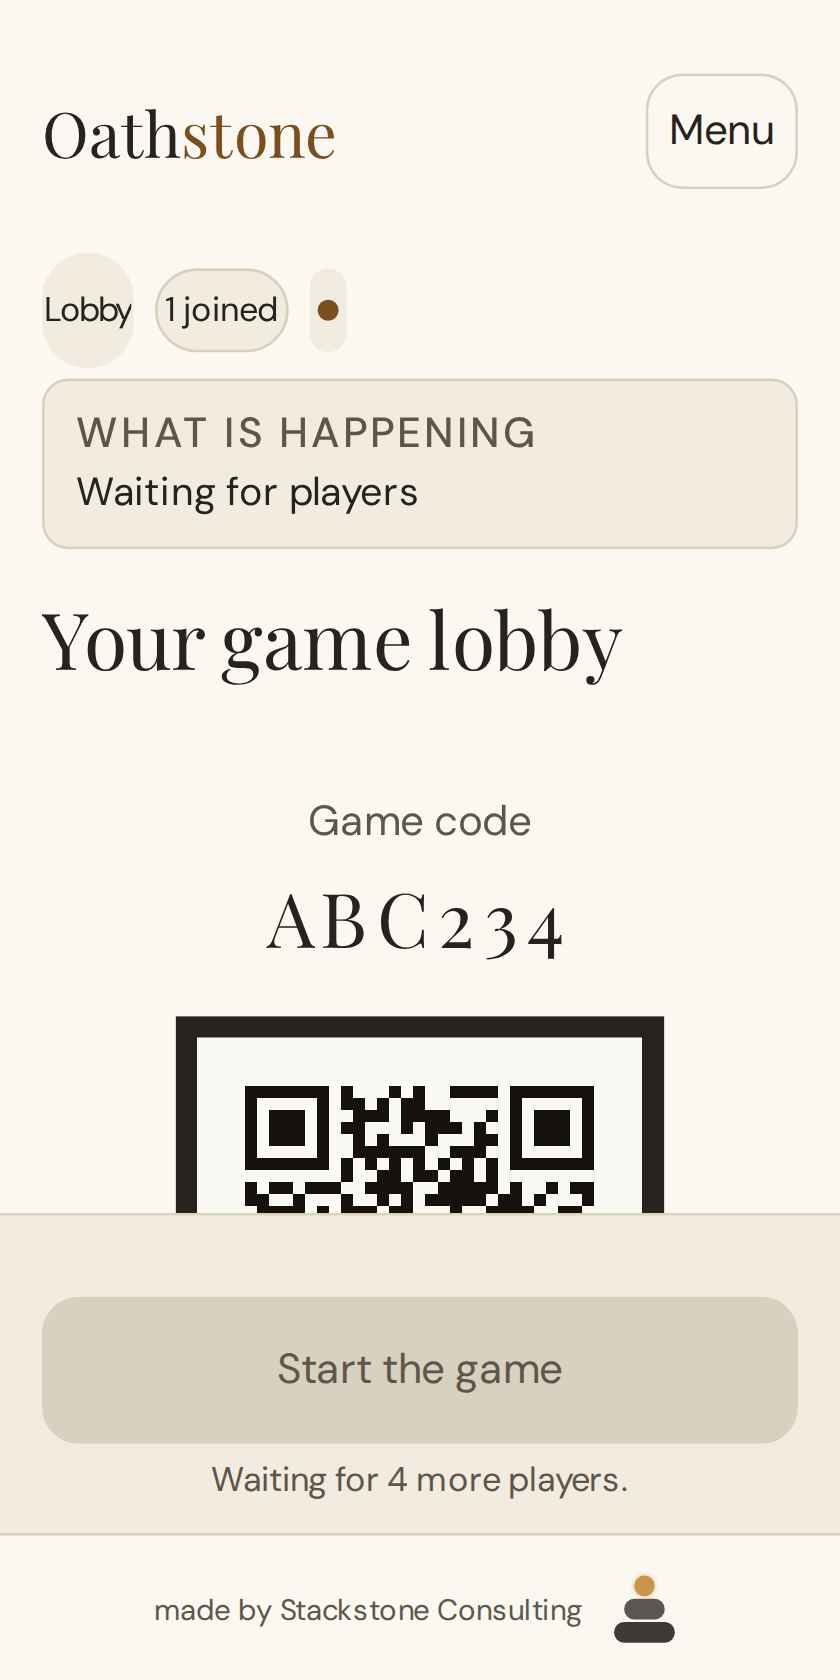
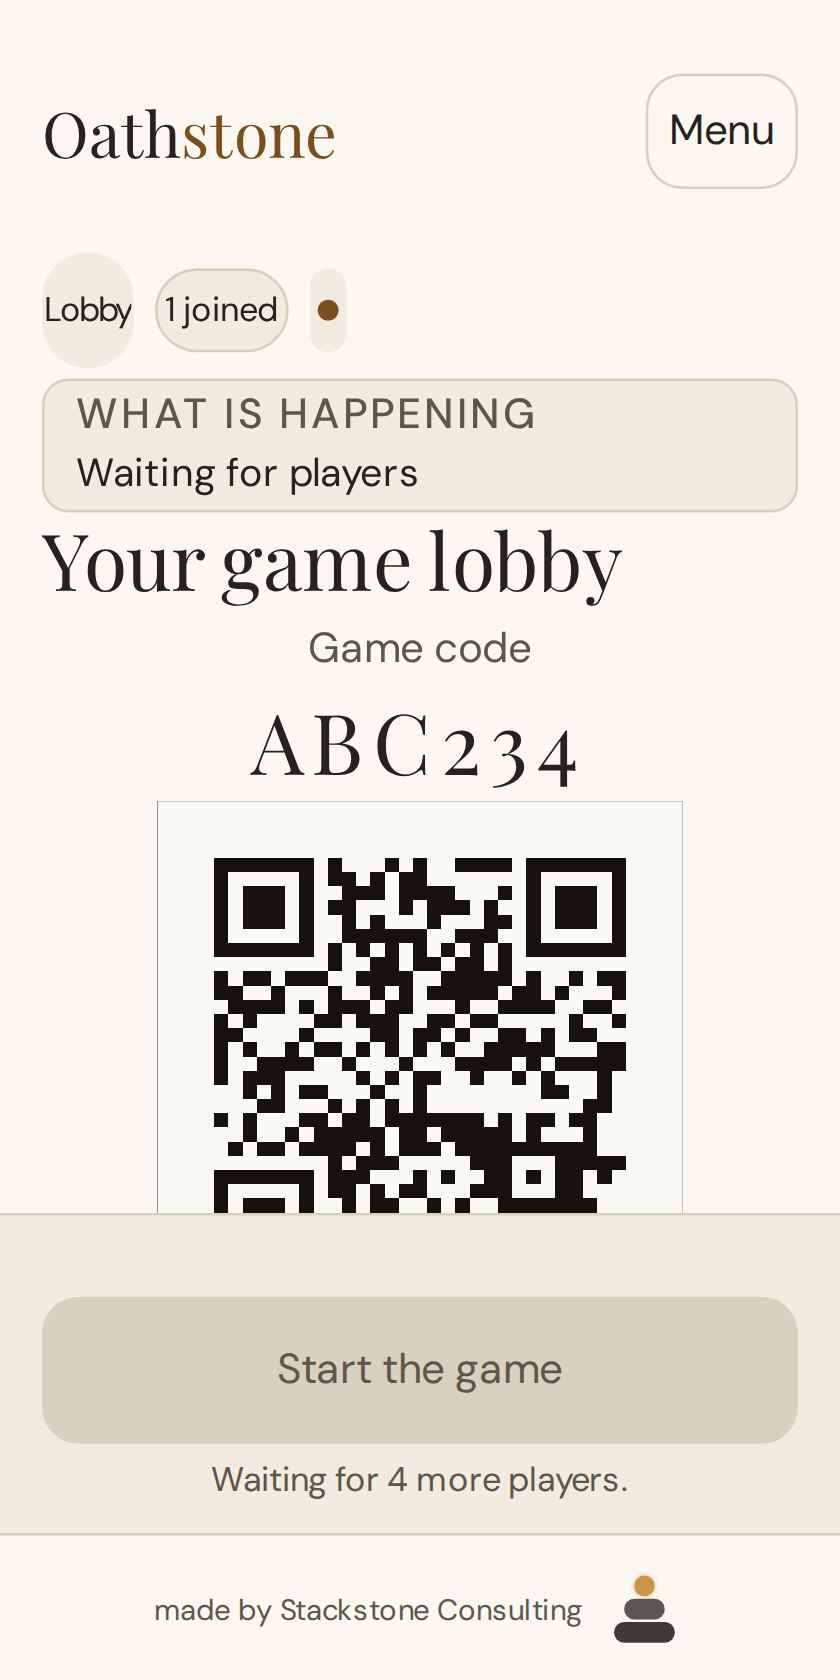
Fit the Lobby invitation in the first phone viewport

Changed region(s): [[0.031, 0.2167, 0.8048, 0.7429]]

diff --git a/e2e/application-layout-audit.spec.ts b/e2e/application-layout-audit.spec.ts
@@ -318,6 +318,43 @@ for (const width of widths)
           );
         }),
       ).toBe(true);
+      if (width === 360 || width === 390) {
+        const firstView = await page.evaluate(() => {
+          const main = document.querySelector('#entry-main')!;
+          const viewport = main.getBoundingClientRect();
+          return {
+            scrollTop: main.scrollTop,
+            viewport: { top: viewport.top, bottom: viewport.bottom },
+            items: ['text-lobby-code', 'img-lobby-qr', 'button-share-game'].map(
+              (id) => {
+                const box = document
+                  .querySelector(`[data-testid="${id}"]`)!
+                  .getBoundingClientRect();
+                return {
+                  id,
+                  top: box.top,
+                  bottom: box.bottom,
+                  width: box.width,
+                  height: box.height,
+                };
+              },
+            ),
+          };
+        });
+        expect(firstView.scrollTop).toBe(0);
+        for (const item of firstView.items) {
+          expect(item.top, JSON.stringify(firstView)).toBeGreaterThanOrEqual(
+            firstView.viewport.top,
+          );
+          expect(item.bottom, JSON.stringify(firstView)).toBeLessThanOrEqual(
+            firstView.viewport.bottom - 8,
+          );
+        }
+        const qr = firstView.items.find((item) => item.id === 'img-lobby-qr')!;
+        expect(qr.width).toBeGreaterThanOrEqual(200);
+        expect(qr.width).toBeLessThanOrEqual(220);
+        expect(qr.height).toBe(qr.width);
+      }
       await audit('lobby-organiser');
 
       for (const phase of phases) {

diff --git a/artifacts/party-game/src/EntryExperience.css b/artifacts/party-game/src/EntryExperience.css
@@ -858,6 +858,46 @@
   .entry-start-game {
     margin-top: 1.25rem;
   }
+
+  /* Keep the fresh Lobby invitation above the dock on short phones.
+     The SVG already includes its own four-module quiet zone. */
+  .entry-screen-lobby .entry-main {
+    padding-top: 4px;
+  }
+
+  .entry-screen-lobby .entry-stage-chrome {
+    margin-bottom: 0;
+  }
+
+  .entry-experience.entry-screen-lobby .game-status-bar {
+    min-height: 44px;
+  }
+
+  .entry-screen-lobby .game-happening-card {
+    padding-block: 3px;
+  }
+
+  .entry-screen-lobby .entry-lobby-logistics {
+    gap: 4px;
+    margin-top: 4px;
+    padding-top: 0;
+  }
+
+  .entry-screen-lobby .entry-qr {
+    width: 200px;
+    padding: 0;
+  }
+
+  .entry-screen-lobby .entry-lobby-code {
+    font-size: 32px;
+    line-height: 1.2;
+  }
+
+  .entry-screen-lobby .entry-code-share .entry-secondary-action {
+    margin-top: 0;
+    min-height: 44px;
+    padding-block: 0.5rem;
+  }
 }
 
 @media (prefers-reduced-motion: no-preference) {

diff --git a/docs/PROGRESS.md b/docs/PROGRESS.md
@@ -1,5 +1,17 @@
 # Status for reviewer
 
+**Round 7 Lobby first-view follow-up — local checks passed.** QR is 200px square,
+with its encoded quiet zone unchanged. Mobile spacing is tightened without
+hiding content or changing the dock. The audit now requires code, QR and Share
+to fit at scroll position zero at 360×740 and 390×844, with 8px clearance.
+Baseline main `2aefc7b` passed Verify #299. All 16 full-state Pixel/iPhone audit
+cases passed (320/360/390/430, day/night), including the new first-view checks;
+TypeScript, lint and whitespace checks passed. Organiser captures and aliases
+are refreshed at all four widths. No rule or secrecy change. Current result:
+[main Verify](https://github.com/WhisperingSquirrel-TD/Turnstone/actions/workflows/verify.yml?query=branch%3Amain).
+
+## Previous completed Lobby batch
+
 **Round 7 organiser Lobby review — COMPLETE.** Verified application:
 `857d492`, [Verify #298 GREEN](https://github.com/WhisperingSquirrel-TD/Turnstone/actions/runs/40204037677).
 Implementation `b42c2f1` also passed Verify #297.

diff --git a/docs/DECISIONS.md b/docs/DECISIONS.md
@@ -1705,3 +1705,14 @@ start requirement, retaining the visible
 `*-dark.jpg` aliases are refreshed from the same captures as `*-day.jpg` and
 `*-night.jpg`; they record phone colour scheme and retain the real phase-based
 Lobby theme rather than faking a different render.
+
+### Lobby first-view follow-up — 25 October 2026
+
+The invitation must fit without scrolling at 360×740 and 390×844. Use a 200px
+mobile QR and remove redundant vertical spacing around the existing status,
+commentary, code and Share action. Keep the SVG's built-in quiet zone and
+foreground/background colours unchanged; remove only the extra outer padding.
+Keep all existing content and the measured fixed-bar reservation. The audit
+checks the code, QR and Share rectangles at scroll position zero with 8px clear
+space above the scroll viewport's bottom, alongside the existing overlap,
+scroll-reachability and touch-target checks.
